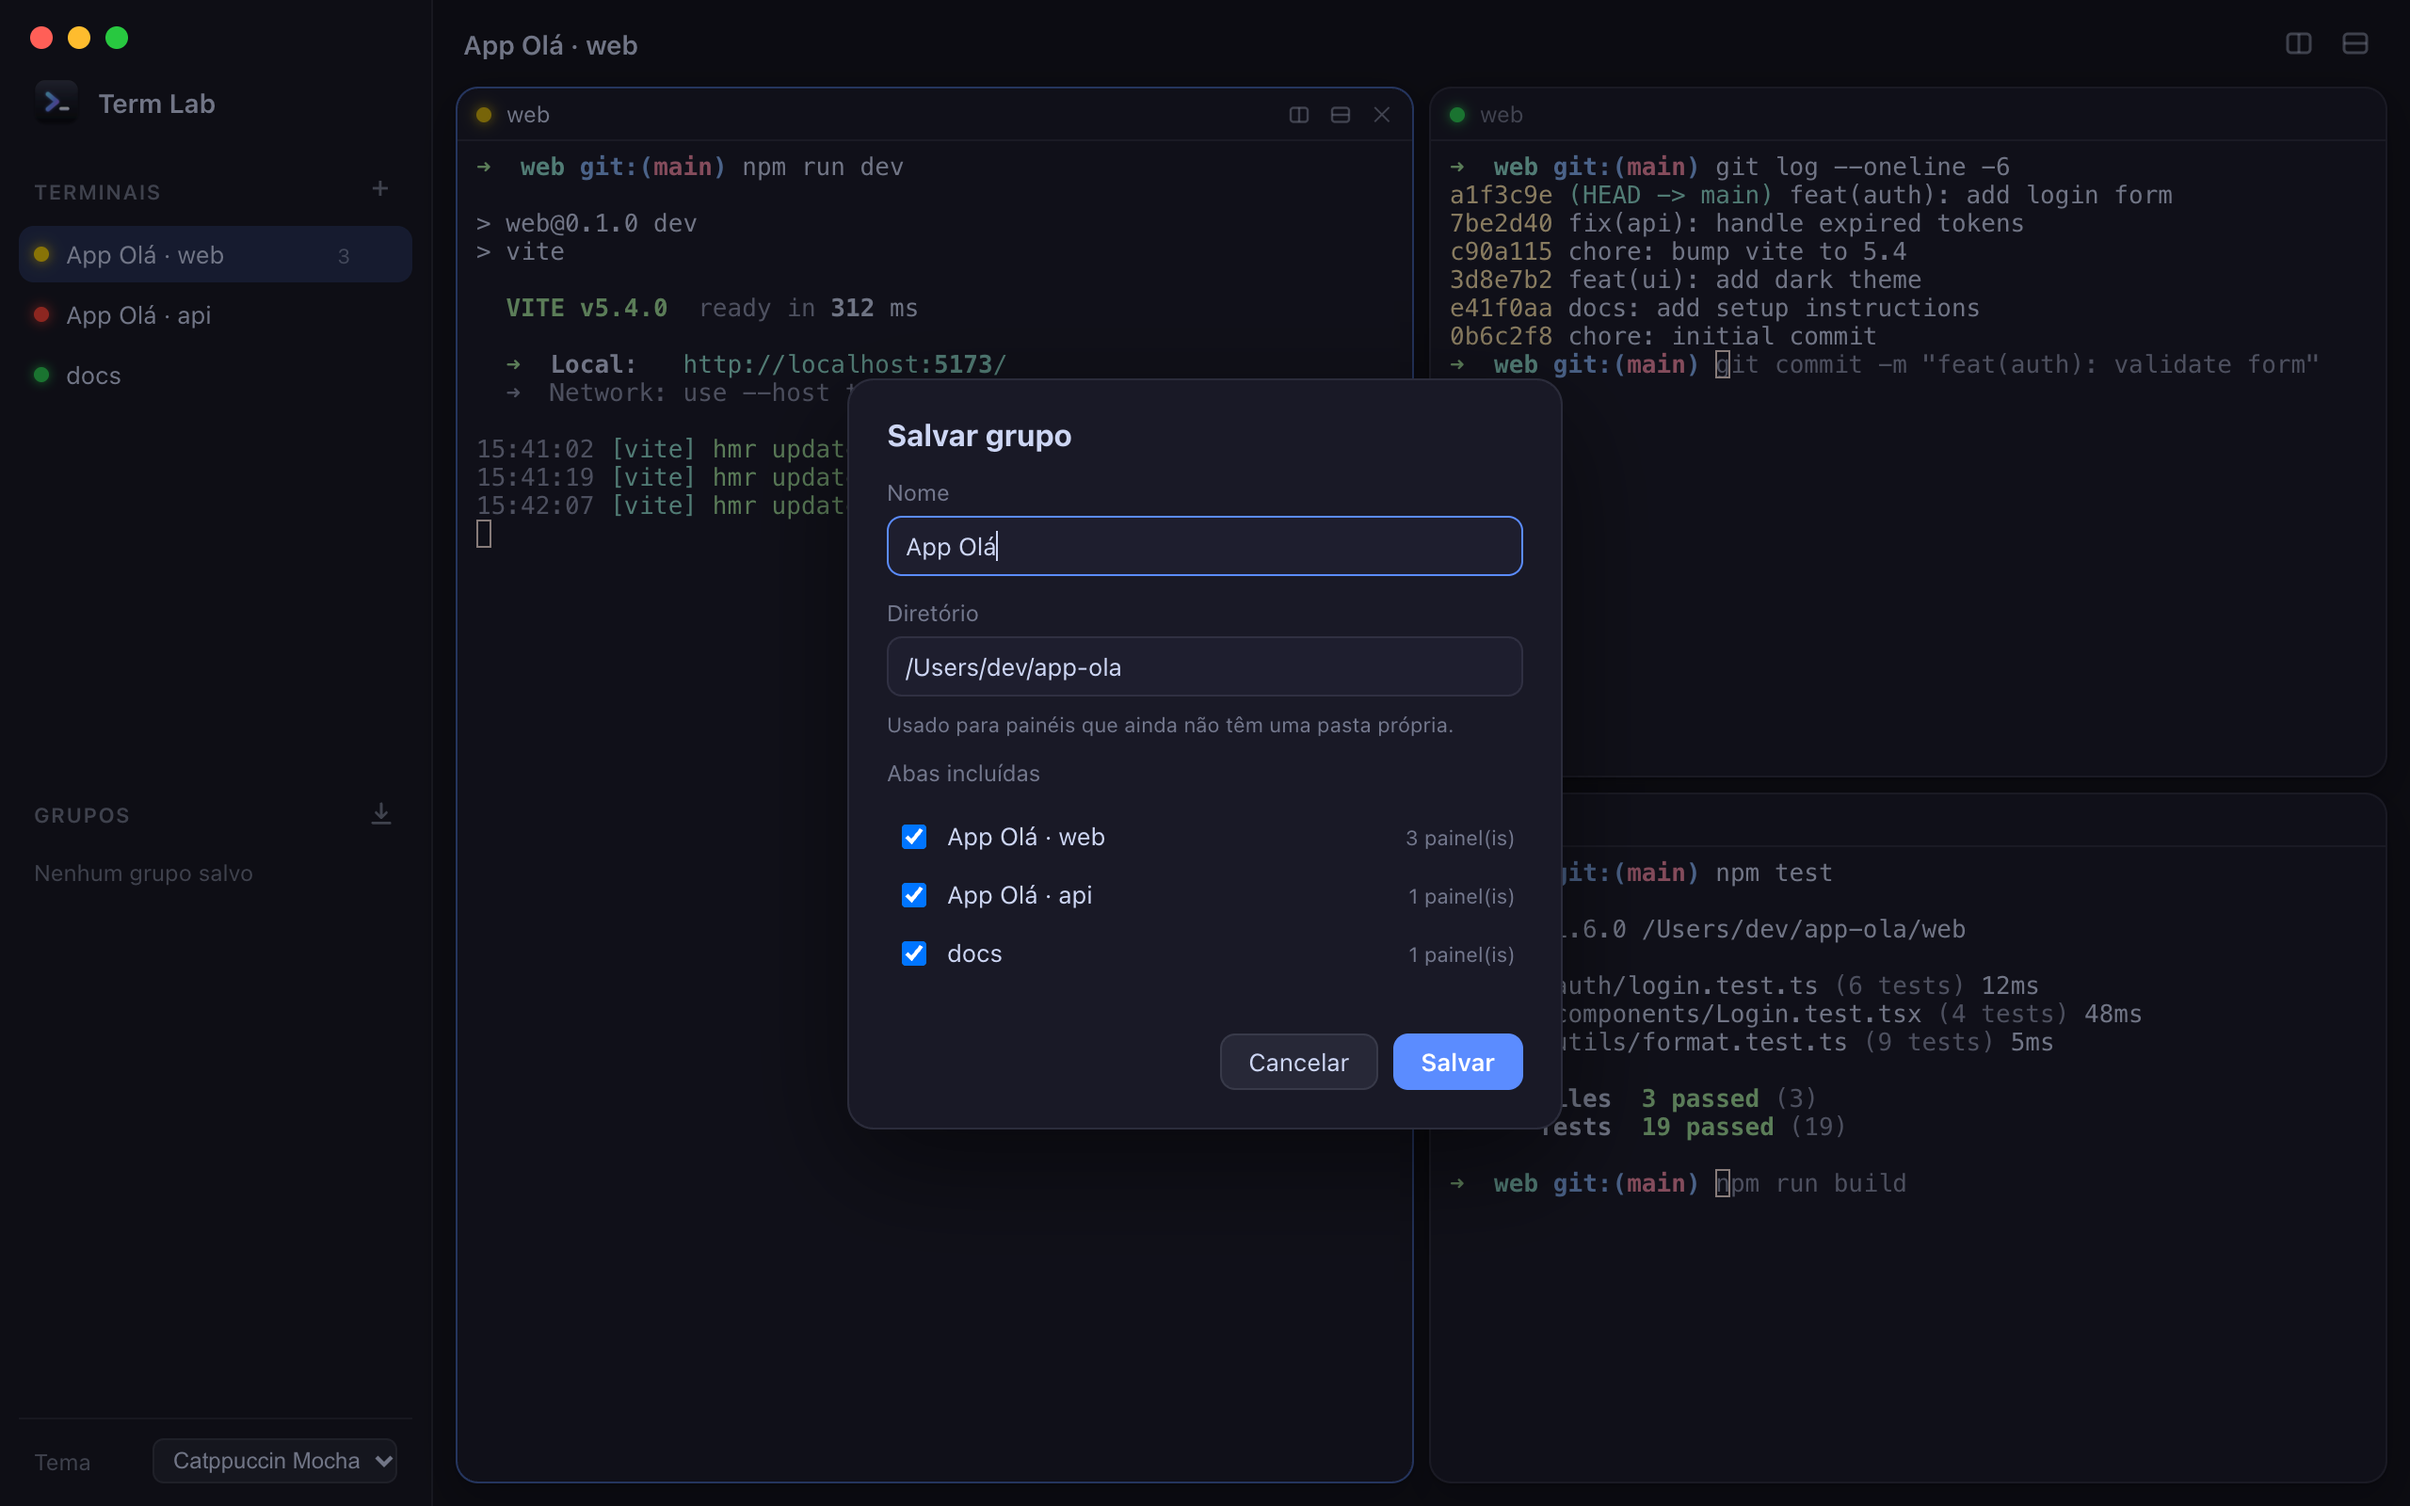
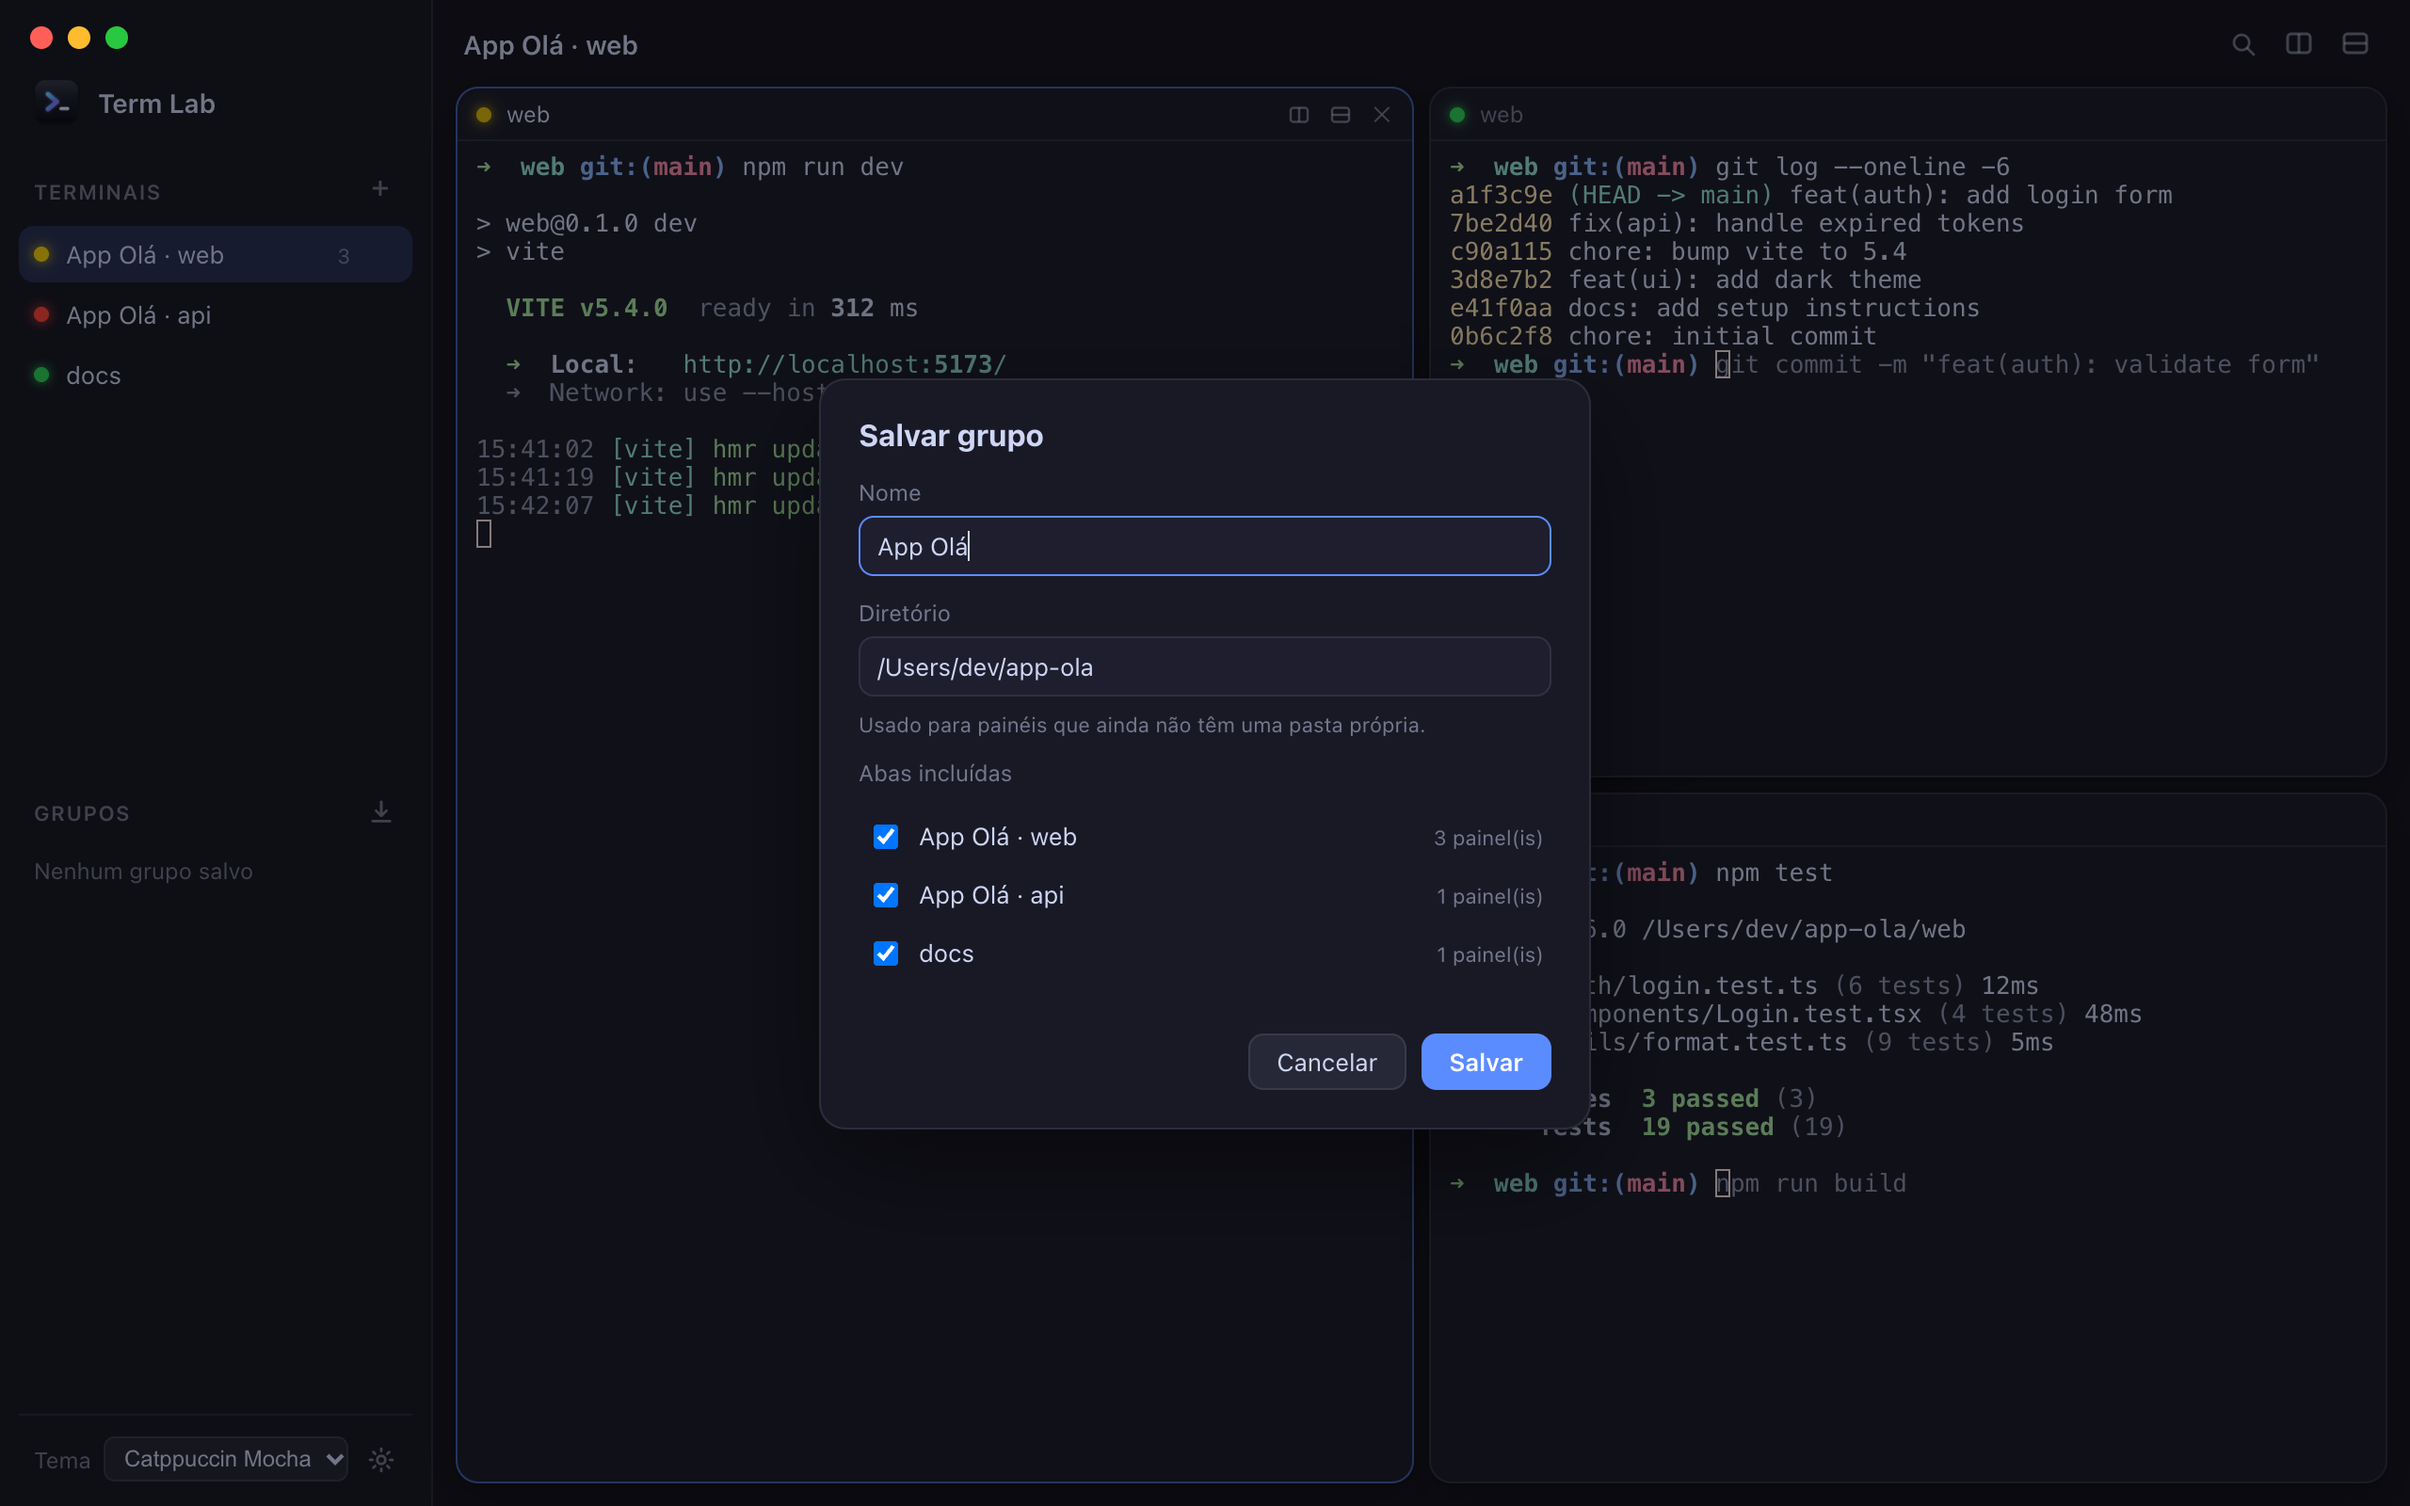
docs: document Homebrew install, shortcuts, updater and release pipeline

diff --git a/README.md b/README.md
@@ -13,12 +13,23 @@
 
 > Os prints são gerados a partir da interface real, com saídas de shell simuladas (`npm run screenshots`).
 
+## Instalação (Homebrew)
+
+```bash
+brew tap matheusmntt/term-lab https://github.com/matheusmntt/term-lab.git
+brew install --cask matheusmntt/term-lab/term-lab
+```
+
+> Caso a release ainda não esteja assinada com certificado Apple Developer ID, adicione `--no-quarantine` na instalação:
+> `brew install --cask --no-quarantine matheusmntt/term-lab/term-lab`
+
 ## Funcionalidades
 
 - **Sessões na sidebar** — cada aba é uma sessão de terminal; clique para alternar, `+` para criar.
+- **Persistência automática de sessão** — ao fechar e reabrir o app, suas abas, layouts de painéis e diretórios são restaurados automaticamente (configurável nas preferências).
 - **Painéis estilo tiling** — divida ao lado ou abaixo, **arraste o cabeçalho** de um painel para reorganizar (soltar na borda encaixa, no centro troca de lugar) e redimensione pelos divisores.
 - **Renomear abas** — duplo clique no nome da aba (ou no título do topo). Nome vazio volta ao nome automático (pasta atual).
-- **Status em tempo real** — a bolinha da aba mostra o que está acontecendo:
+- **Status em tempo real (`zsh`, `bash` e `fish`)** — a bolinha mostra o que está acontecendo:
 
   | Cor | Significado |
   | --- | --- |
@@ -28,8 +39,10 @@
 
   Na aba, a cor resume todos os painéis: amarelo se algum estiver rodando, senão vermelho se algum falhou. `Ctrl+C` não conta como erro.
 - **Grupos** — salve um conjunto de abas com nome e diretório (ex.: **App Olá** com os terminais de backend e frontend) e reabra tudo com um clique, com layout e pastas preservados.
+- **Busca integrada (`⌘F`)** — barra flutuante de busca incremental no buffer do terminal em foco.
+- **Preferências (`⌘,`)** — customize família e tamanho da fonte, shell padrão, estilo/piscar do cursor, linhas de histórico e restauração de sessão.
+- **Menu nativo do macOS e atualizador automático** — suporte completo a atalhos do sistema (Copiar, Colar, Sobre, Preferências) e verificação/instalação de novas versões via `tauri-plugin-updater`.
 - **Temas** — Catppuccin Mocha, Dracula e Tokyo Night, com contraste ajustado para textos apagados e _autosuggestions_.
-- **Terminal de verdade** — PTY real (`portable-pty`) renderizado com [xterm.js](https://xtermjs.org/): cores, links clicáveis e busca.
 
 <details>
 <summary>Mais prints</summary>
@@ -47,72 +60,81 @@
 | `⌘D` | Dividir painel ao lado |
 | `⌘⇧D` | Dividir painel abaixo |
 | `⌘W` | Fechar painel em foco |
-| Duplo clique na aba | Renomear |
-
-## Requisitos
-
-- macOS
-- [Node.js](https://nodejs.org/) 20+
-- [Rust](https://rustup.rs/) (toolchain estável)
+| `⌘F` | Buscar no terminal |
+| `⌘K` | Limpar terminal em foco |
+| `⌘,` | Abrir preferências |
+| `⌘=` / `⌘-` / `⌘0` | Aumentar, diminuir ou restaurar tamanho da fonte |
+| `⌘⇧R` ou duplo clique | Renomear aba |
+| `⌘⇧S` | Salvar grupo de abas |
 
 ## Desenvolvimento
 
+Requisitos: macOS, [Node.js](https://nodejs.org/) 20+ e [Rust](https://rustup.rs/) (toolchain estável).
+
 ```bash
 npm install
-npm run tauri dev
+npm test            # testes unitários (Vitest)
+npm run tauri dev   # abre o app em modo desenvolvimento
 ```
 
-Gerar o app (`.app` / `.dmg`) para macOS:
+Gerar pacote local sem assinatura de updater:
 
 ```bash
-npm run tauri build
+npm run tauri build -- --config '{"bundle":{"createUpdaterArtifacts":false}}'
 ```
 
 ### Docker
 
-O Docker serve para instalar dependências e validar/compilar **para Linux** sem poluir a máquina. Como o Tauri abre uma janela nativa, o app não é exibido a partir do container.
+O Docker serve para instalar dependências e validar/compilar **para Linux** sem poluir a máquina:
 
 ```bash
-docker compose run --rm check   # tsc + cargo check
+docker compose run --rm check   # tsc + vitest + cargo check
 docker compose run --rm build   # tauri build (Linux)
 docker compose up dev           # Vite em http://localhost:1420
 ```
 
+## Releases, Updater e Homebrew
+
+O repositório automatiza versionamento, build universal (`universal-apple-darwin`), publicação do `latest.json` do updater e atualização do `Casks/term-lab.rb`:
+
+1. **Versionamento e CHANGELOG**: o workflow [release-please.yml](.github/workflows/release-please.yml) lê os _Conventional Commits_ na `main` e abre um PR alinhando a versão em `package.json`, `src-tauri/Cargo.toml`, `src-tauri/tauri.conf.json` e `Casks/term-lab.rb`, além de atualizar o [CHANGELOG.md](CHANGELOG.md). Para alterar a versão localmente: `npm run version:bump -- 0.2.0`.
+2. **Build universal e Cask**: ao fazer merge do PR de release (ou publicar uma tag `v*`), o workflow [release.yml](.github/workflows/release.yml) gera o `.dmg` universal (Apple Silicon + Intel), publica os artefatos no GitHub Releases e atualiza automaticamente o `sha256` e a versão em [Casks/term-lab.rb](Casks/term-lab.rb).
+3. **Chave do Auto-Updater**: antes da primeira release pública, gere seu par de chaves:
+   ```bash
+   npx tauri signer generate -w ~/.tauri/term-lab.key
+   ```
+   Coloque o conteúdo de `~/.tauri/term-lab.key.pub` em `plugins.updater.pubkey` no `src-tauri/tauri.conf.json`, e cadastre `TAURI_SIGNING_PRIVATE_KEY` (conteúdo de `~/.tauri/term-lab.key`) e `TAURI_SIGNING_PRIVATE_KEY_PASSWORD` nos _Actions Secrets_ do GitHub.
+4. **Assinatura e notarização Apple (opcional)**: configure os secrets `APPLE_CERTIFICATE`, `APPLE_CERTIFICATE_PASSWORD`, `APPLE_SIGNING_IDENTITY`, `APPLE_ID`, `APPLE_PASSWORD` e `APPLE_TEAM_ID` no GitHub para que o `release.yml` assine e notarize o `.app`/`.dmg` automaticamente.
+
 ## Como o status funciona
 
-Ao iniciar um shell **zsh**, o backend usa um `ZDOTDIR` temporário que carrega seus dotfiles normalmente e, ao final do `.zshrc`, registra hooks `preexec`/`precmd` que emitem sequências OSC:
+Ao iniciar um shell **zsh**, **bash** ou **fish**, o backend em [shells.rs](src-tauri/src/shells.rs) preserva seus dotfiles e injeta hooks (`preexec`/`precmd` no zsh, `DEBUG`/`PROMPT_COMMAND` no bash e `fish_preexec`/`fish_prompt` no fish) que emitem:
 
 | Sequência | Uso |
 | --- | --- |
 | `OSC 133;C` | um comando começou a executar |
 | `OSC 133;D;<código>` | o comando terminou, com seu exit code |
-| `OSC 7` | diretório atual (usado no nome da aba e nos grupos) |
-
-O frontend interpreta essas sequências para colorir as bolinhas. Outros shells funcionam normalmente, mas sem status e sem diretório atual.
+| `OSC 7` | diretório atual (usado no título da aba, sessão e grupos) |
 
 ## Estrutura
 
 ```
 src/
-  main.ts       interface: abas, painéis, status, grupos
-  layout.ts     árvore de layout dos painéis (funções puras)
-  groups.ts     persistência dos grupos (localStorage)
-  themes.ts     temas do terminal
+  main.ts          interface: abas, painéis, busca, status e grupos
+  layout.ts        árvore de layout dos painéis (funções puras)
+  groups.ts        persistência dos grupos (localStorage)
+  preferences.ts   preferências do terminal
+  session.ts       persistência das abas abertas
+  updater.ts       verificação e instalação de atualizações
+  themes.ts        temas do terminal
+  *.test.ts        testes unitários (Vitest)
 src-tauri/
-  src/main.rs   PTY, integração com zsh e ícone do Dock
-assets/icon.svg fonte do ícone do app
-scripts/        gerador de prints
-docs/screenshots/
+  src/main.rs      gerenciamento de PTY, plugins e ícone do Dock
+  src/shells.rs    integração OSC 133 / OSC 7 para zsh, bash e fish
+  src/menu.rs      menu nativo do macOS
+Casks/term-lab.rb  Homebrew Cask oficial
 ```
 
-## Ícone e prints
+## Licença
 
-```bash
-# Ícone: edite assets/icon.svg, renderize para app-icon.png (1024×1024, transparente) e gere o conjunto
-npx tauri icon app-icon.png
-
-# Prints do README (usa o Chrome instalado; defina CHROME_PATH se necessário)
-npm run screenshots
-```
-
-O ícone aparece no Dock (inclusive em `tauri dev`, definido em runtime), na janela, no `.app`/`.dmg` (`icon.icns`), no favicon e na sidebar.
+Distribuído sob a licença [MIT](LICENSE).
